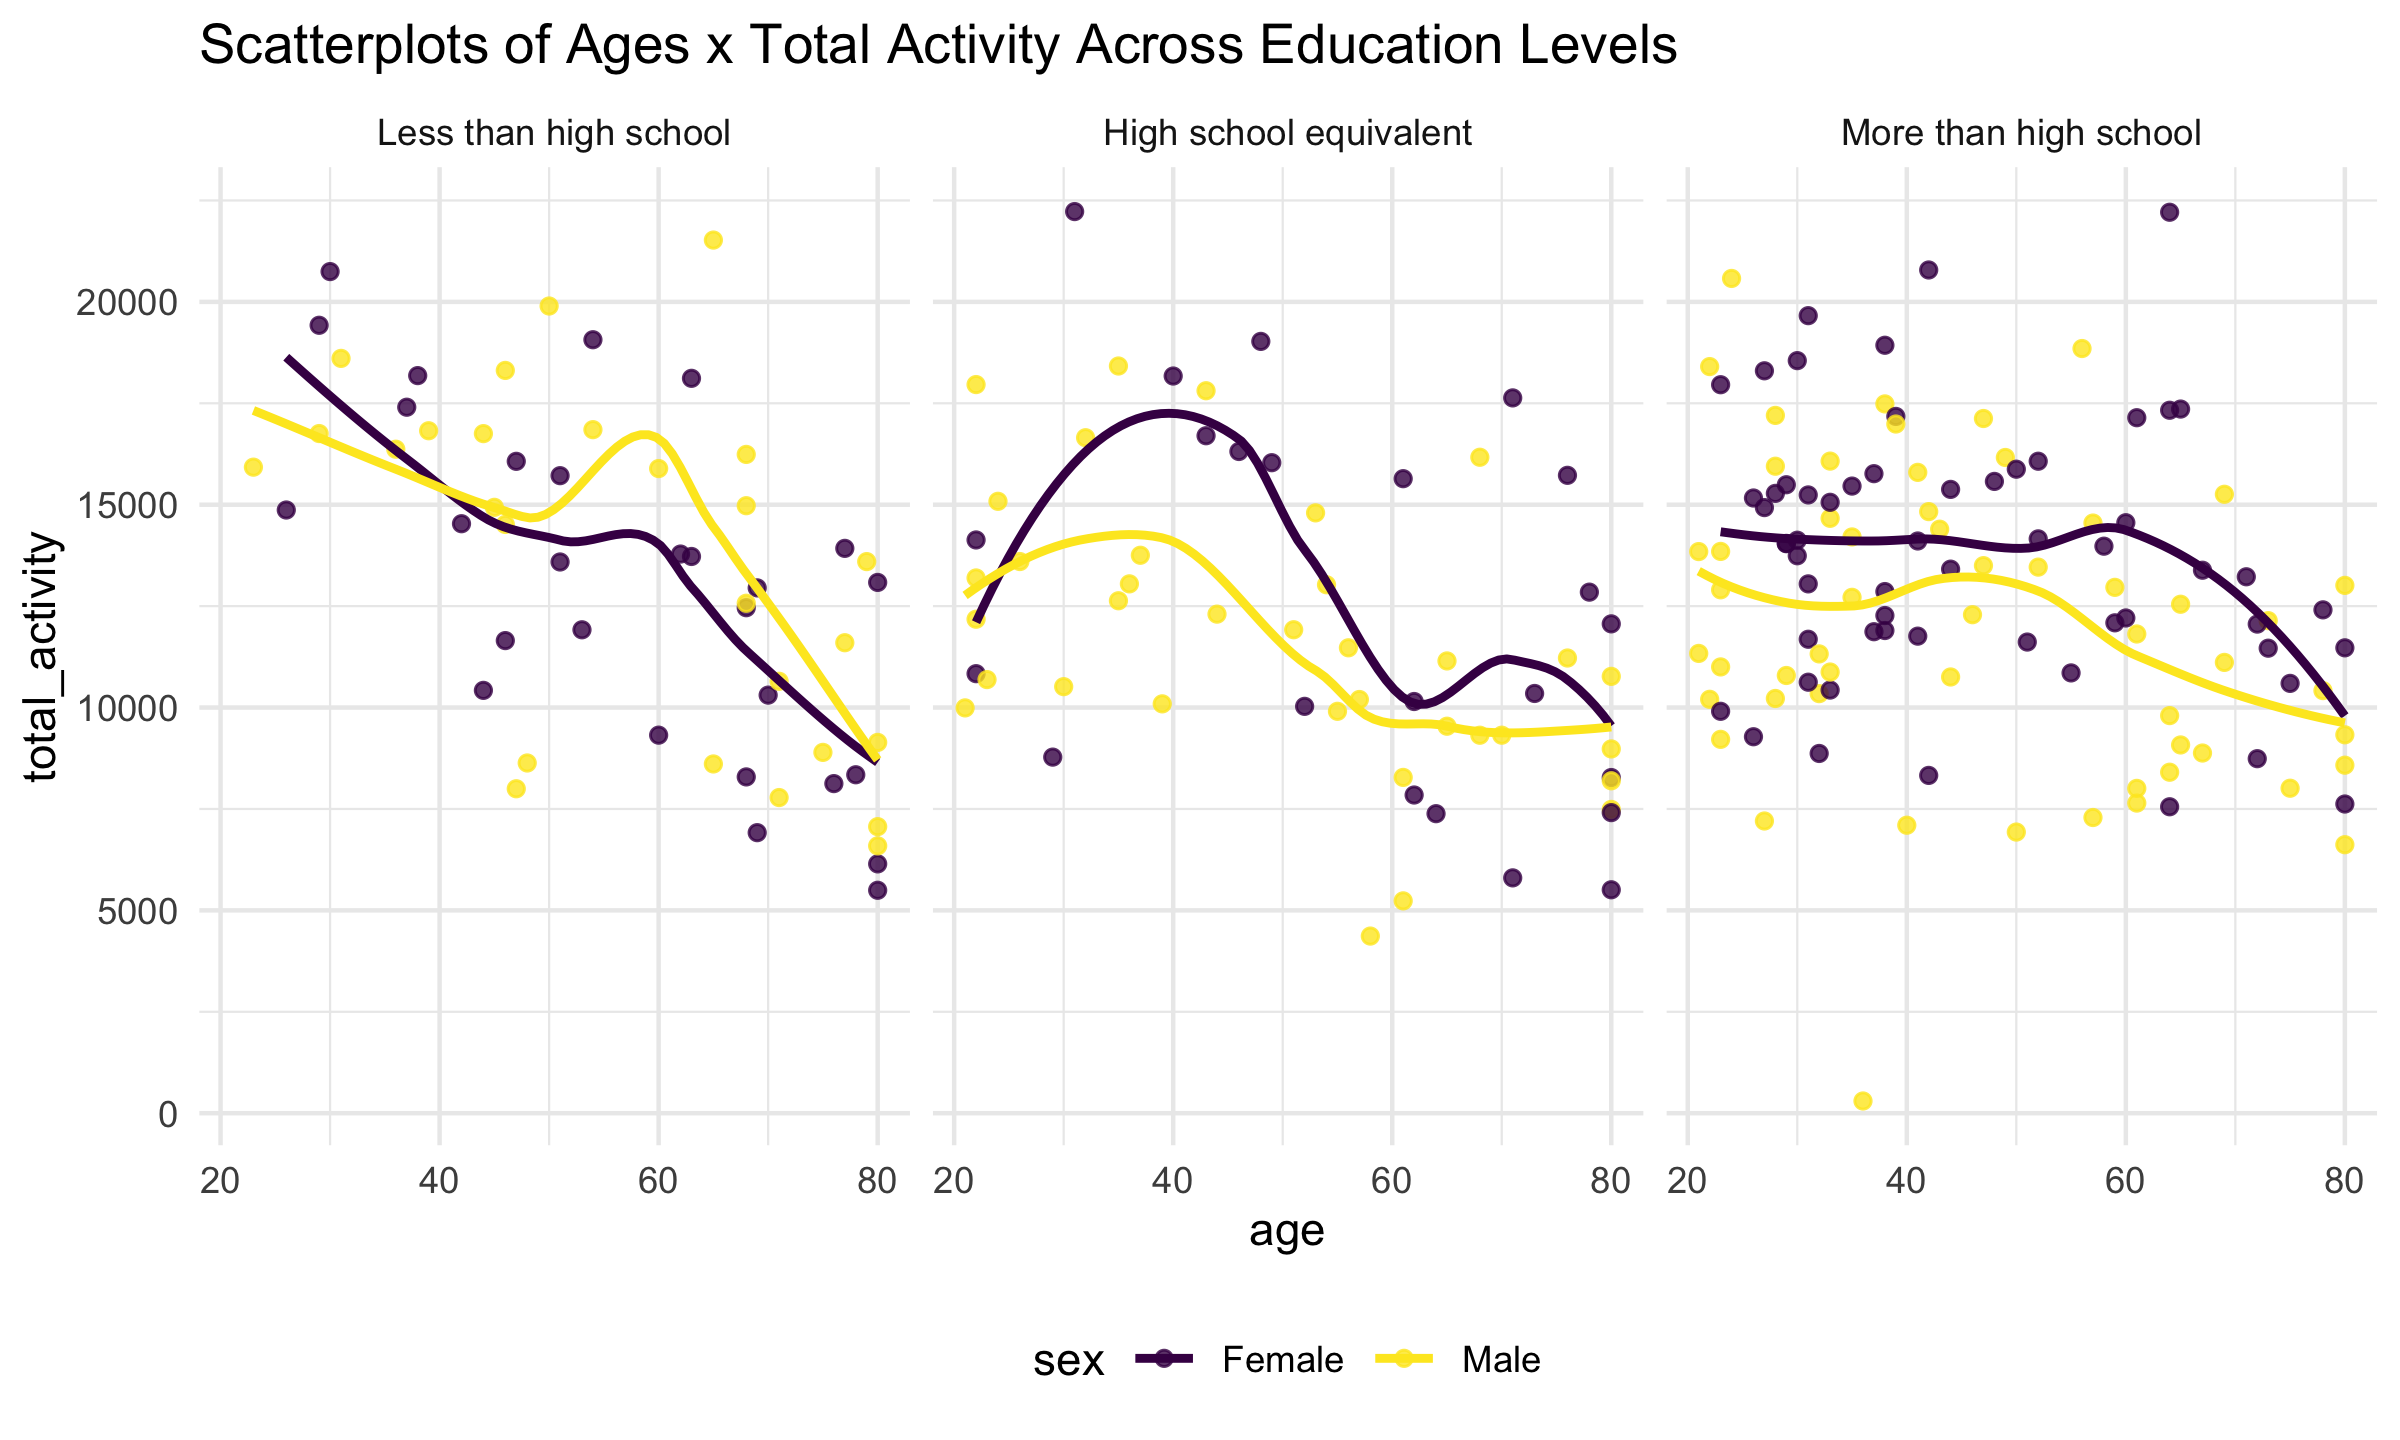
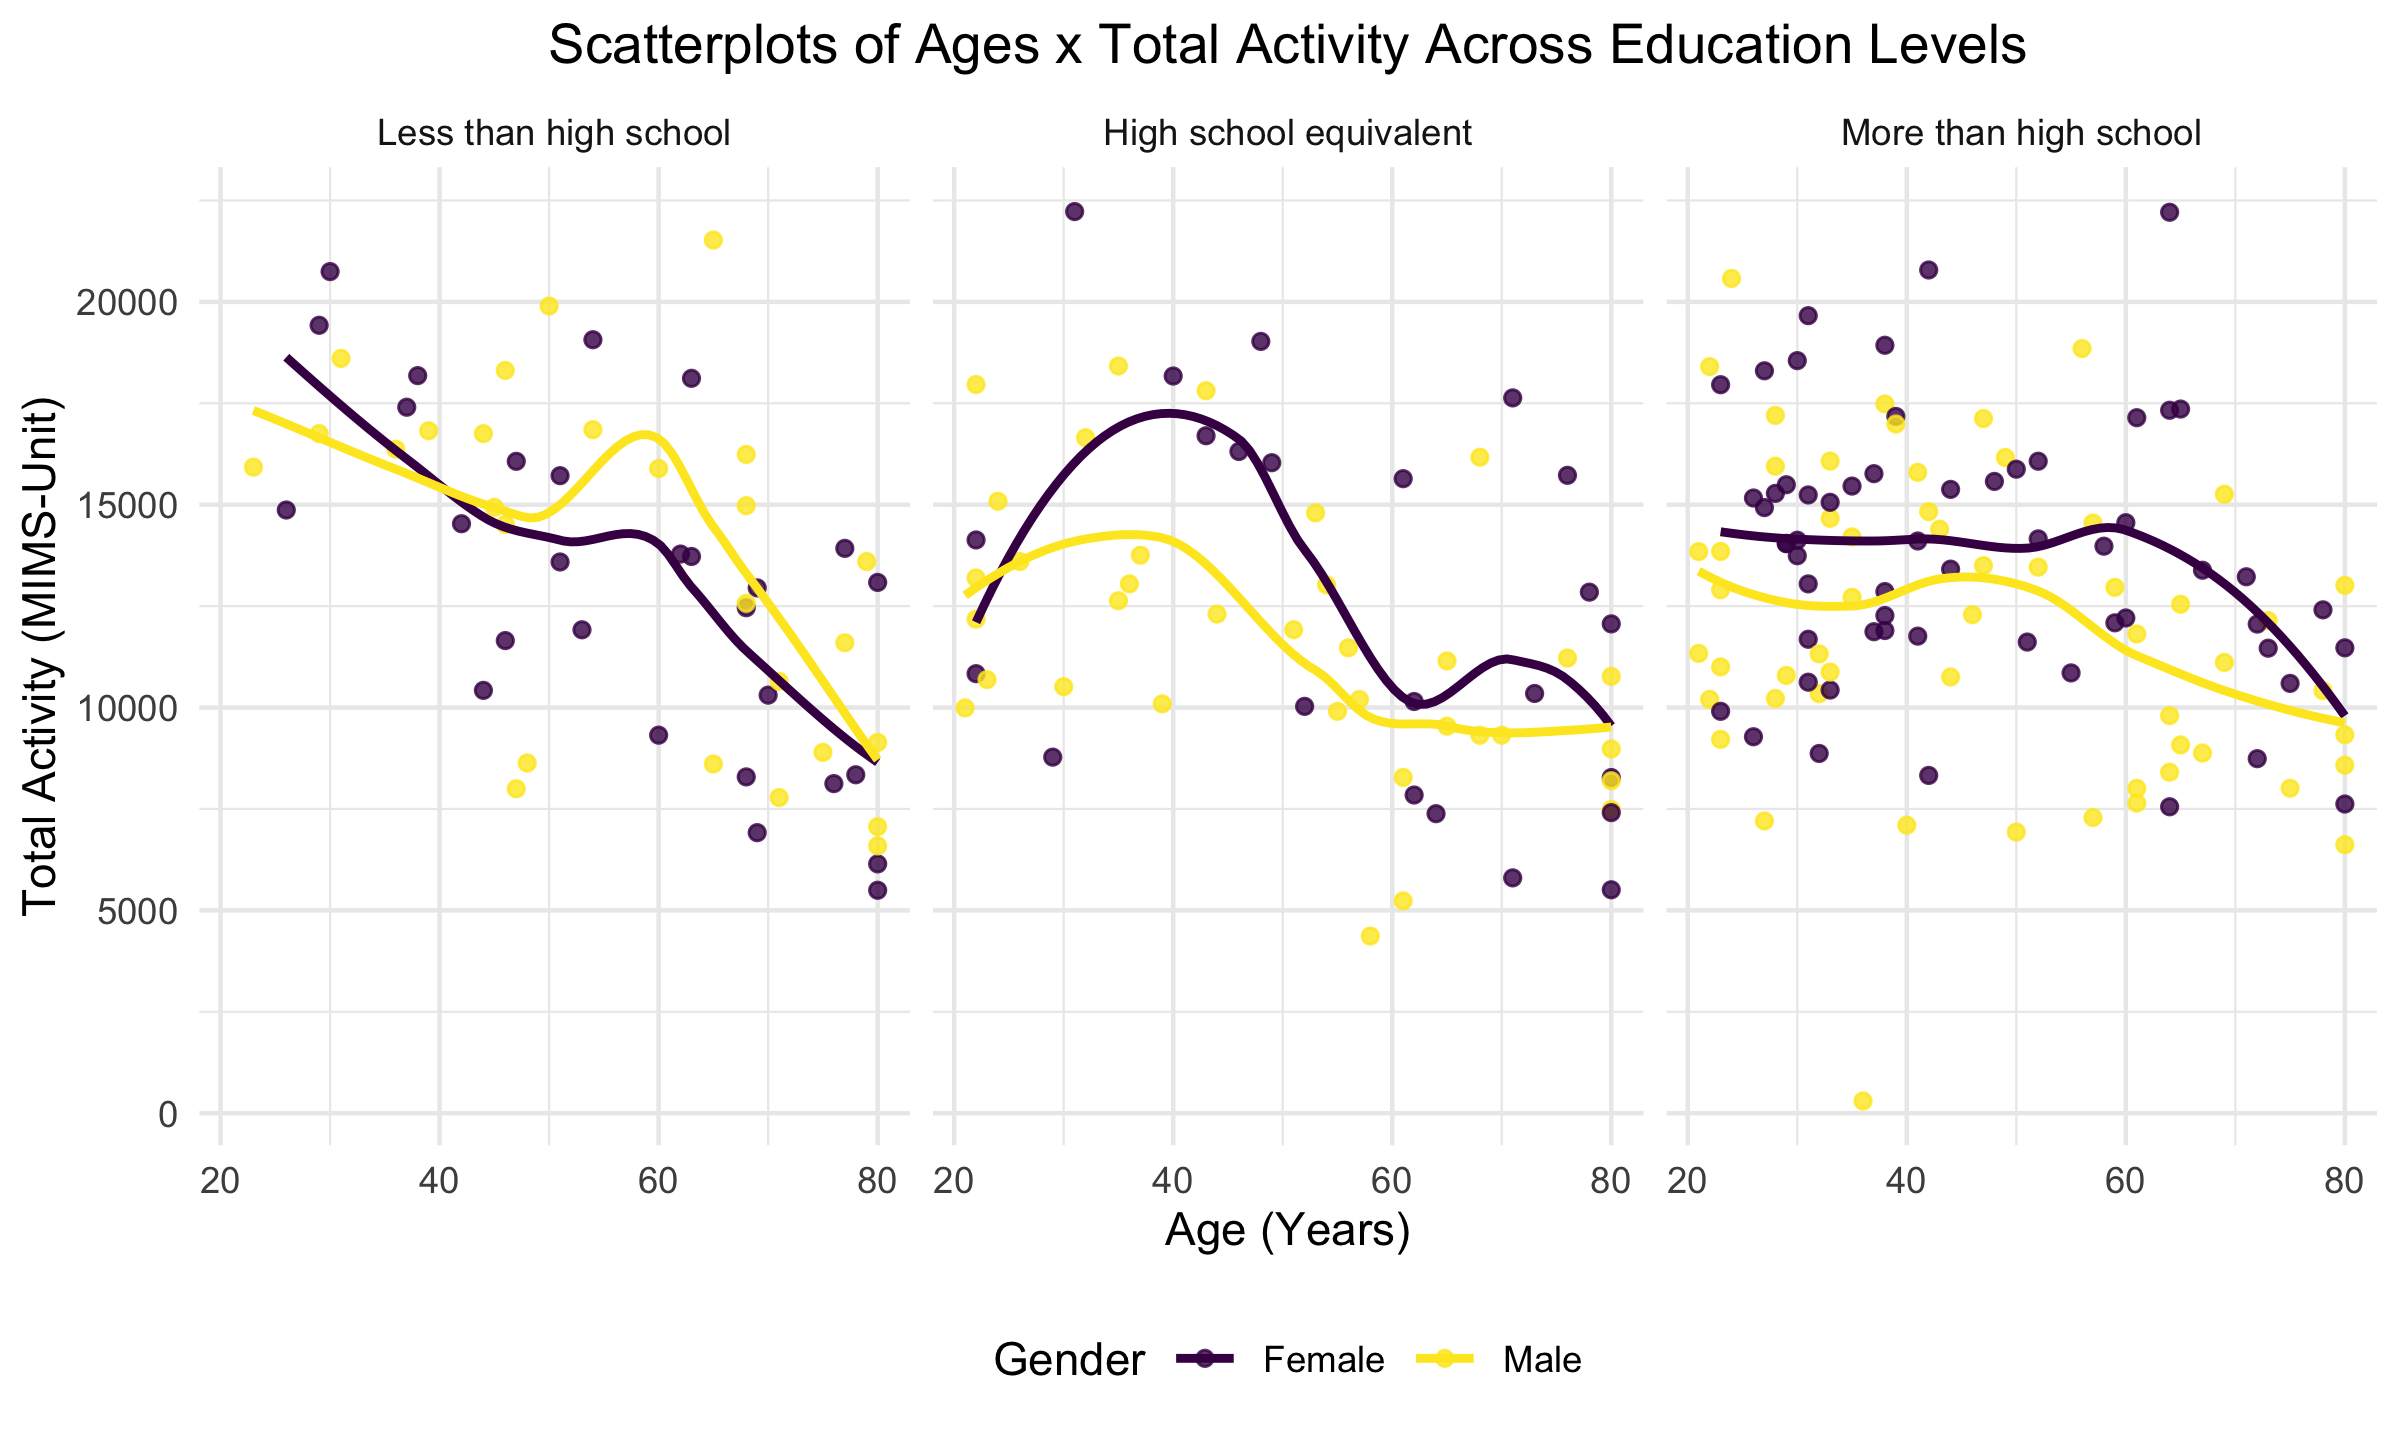
cleaned up plots, added more comments about prob2 last graph

diff --git a/p8105_hw3_rs4338.md b/p8105_hw3_rs4338.md
@@ -81,21 +81,24 @@ nhanes %>%
   group_by(education, sex) %>% 
   count() %>% 
   arrange(education) %>% 
-  knitr::kable() %>% 
+  knitr::kable(col.names = c("Education", "Sex", "Number of Participants"), caption = "NHANES Accelerometer Demographics Breakdown") %>% 
   collapse_rows(columns = 1)
 ```
 
 <table>
+<caption>
+NHANES Accelerometer Demographics Breakdown
+</caption>
 <thead>
 <tr>
 <th style="text-align:left;">
-education
+Education
 </th>
 <th style="text-align:left;">
-sex
+Sex
 </th>
 <th style="text-align:right;">
-n
+Number of Participants
 </th>
 </tr>
 </thead>
@@ -168,8 +171,11 @@ nhanes %>%
   geom_density(alpha = .3) +
   facet_grid(. ~ education) +
   labs(
-    title = "Density Plots of Ages Across Genders & Education Levels" 
-    )
+    title = "Density Plots of Ages Across Genders & Education Levels",
+    x = "Age (Years)",
+    y = "Density"
+    ) +
+  theme(plot.title = element_text(hjust = 0.5))
 ```
 
 <img src="p8105_hw3_rs4338_files/figure-gfm/prob2_genderedu-1.png" width="100%" />
@@ -204,14 +210,39 @@ nhanes %>%
   geom_smooth(se = FALSE) +
   facet_grid(. ~ education) +
   labs(
-    title = "Scatterplots of Ages x Total Activity Across Education Levels" 
-    )
+    title = "Scatterplots of Ages x Total Activity Across Education Levels",
+    x = "Age (Years)",
+    y = "Total Activity (MIMS-Unit)",
+    colour="Gender" 
+    ) +
+  theme(plot.title = element_text(hjust = 0.5))
 ```
 
 <img src="p8105_hw3_rs4338_files/figure-gfm/prob2_total_activity-1.png" width="100%" />
 
 Accelerometer Data Over 24 Hours for each education level and across
 sexes.
+
+- From the plot below, it looks like both female and male populations
+  for each education level showed very similar trends and patterns.
+  - Especially for the Less than high school level, those lines are
+    practically the same.
+  - For the other two, women seem to have a slightly higher MIMS level
+    for the entire day until the end when the lines converge again.
+  - The most separation is in the more than high school group.
+- It’s a general pattern where most people have low MIMS activity at the
+  beginning/midnight (first 250 minutes), which makes sense because the
+  activity begins to pick up quickly when people start to wake up.
+- For less than high school, the peak is around noon and slowly goes
+  down after that until the sharp drop off around 10 pm. The high school
+  equivalent level has a more stable pattern and stays pretty stagnant
+  until a little earlier than the less than high school group. Lastly,
+  the more than high school level has a little higher plateau than the
+  rest of the levels and similarly dips at the time that high school
+  equivalent does.
+- Lastly, the range for more than high school is the largest out of the
+  three. Women seem to have more activity in the morning, while men have
+  more activity in the evening. These go up to about 80 MIMS units.
 
 ``` r
 nhanes %>% 
@@ -220,10 +251,12 @@ nhanes %>%
   geom_smooth(se = FALSE, linewidth=0.5) +
   facet_grid(. ~ education) +
   labs(
-    title = "24 Hour Accelerometer Data Across Education Levels by Sex" 
-    )
+    title = "24 Hour Accelerometer Data Across Education Levels by Sex",
+    x = "Time (Minutes)",
+    y = "Monitor-Independent Movement Summary (MIMS-unit)",
+    colour="Gender"
+    ) +
+  theme(plot.title = element_text(hjust = 0.5))
 ```
 
-    ## `geom_smooth()` using method = 'gam' and formula = 'y ~ s(x, bs = "cs")'
-
-<img src="p8105_hw3_rs4338_files/figure-gfm/unnamed-chunk-1-1.png" width="100%" />
+<img src="p8105_hw3_rs4338_files/figure-gfm/prob2_acceldata_24hours-1.png" width="100%" />
